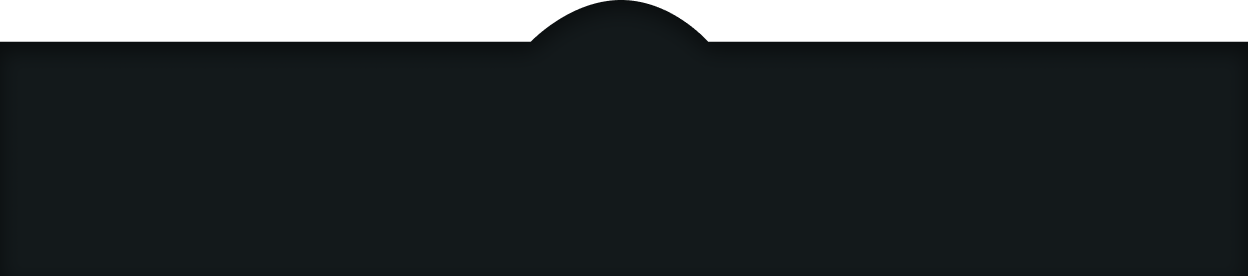
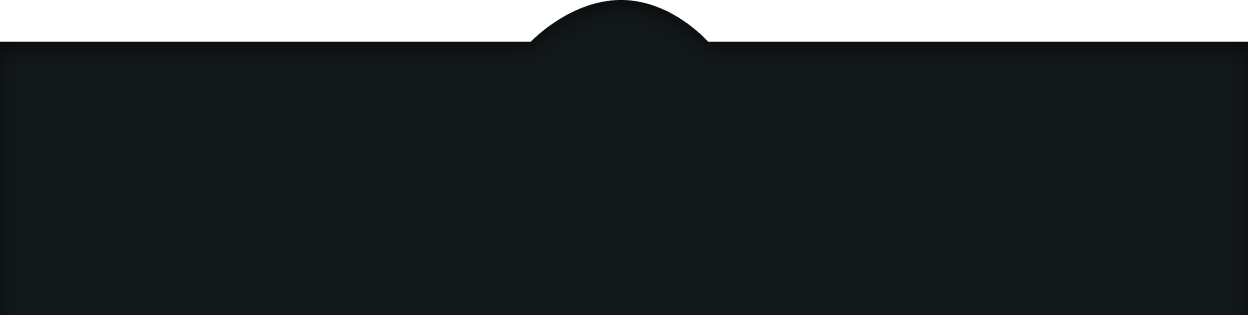
CU-864e8fpdr - Fix Design Issues related to PrivateNet/TestNet Support

diff --git a/src/components/SwiperPanel.tsx b/src/components/SwiperPanel.tsx
@@ -336,62 +336,62 @@ export default function SwiperPanel(props: SwiperProps) {
         ]}
         {...panResponder.current.panHandlers}
       >
-        <LinearGradient
-          colors={
-            props.darkerSolidColorBG
-              ? [theme.colors.background[14], theme.colors.background[14]]
-              : props.solidColorBG
-              ? [theme.colors.background[17], theme.colors.background[17]]
-              : [theme.colors.background[6], theme.colors.background[7]]
-          }
-          end={[1, 0.75]}
-          style={[
-            {
-              borderTopLeftRadius: 18,
-              borderTopRightRadius: 18,
-              width: '100%',
-              flexGrow: 1,
-              paddingBottom,
-              paddingTop,
-            },
-          ]}
-        >
-          {props.draggable && <DragBar />}
-          {!props.noHeader && <Header {...props} />}
-          {props.subHeader}
-          {props.disableDefaultScrollView ? (
-            <LinearLayout
-              width="100%"
-              weight={1}
-              style={{
-                paddingLeft,
-                paddingRight,
-                paddingBottom: PANEL_BOUNCE_OFFSET,
-              }}
-            >
-              {props.children}
-            </LinearLayout>
-          ) : (
-            <ScrollView
-              ref={scrollView}
-              contentContainerStyle={{
-                paddingLeft,
-                paddingRight,
-                paddingBottom: PANEL_BOUNCE_OFFSET,
+        <LinearLayout overflow="hidden" width="100%" flexGrow={1} borderTopLeftRadius={18} borderTopRightRadius={18}>
+          <LinearGradient
+            colors={
+              props.darkerSolidColorBG
+                ? [theme.colors.background[14], theme.colors.background[14]]
+                : props.solidColorBG
+                ? [theme.colors.background[17], theme.colors.background[17]]
+                : [theme.colors.background[6], theme.colors.background[7]]
+            }
+            end={[1, 0.75]}
+            style={[
+              {
+                width: '100%',
                 flexGrow: 1,
-              }}
-              alwaysBounceVertical={false}
-              showsVerticalScrollIndicator={false}
-              showsHorizontalScrollIndicator={false}
-              disableScrollViewPanResponder
-              nestedScrollEnabled
-            >
-              <TouchableHighlight>
-                <>{props.children}</>
-              </TouchableHighlight>
-            </ScrollView>
-          )}
-        </LinearGradient>
+                paddingBottom,
+                paddingTop,
+              },
+            ]}
+          >
+            {props.draggable && <DragBar />}
+            {!props.noHeader && <Header {...props} />}
+            {props.subHeader}
+            {props.disableDefaultScrollView ? (
+              <LinearLayout
+                width="100%"
+                weight={1}
+                style={{
+                  paddingLeft,
+                  paddingRight,
+                  paddingBottom: PANEL_BOUNCE_OFFSET,
+                }}
+              >
+                {props.children}
+              </LinearLayout>
+            ) : (
+              <ScrollView
+                ref={scrollView}
+                contentContainerStyle={{
+                  paddingLeft,
+                  paddingRight,
+                  paddingBottom: PANEL_BOUNCE_OFFSET,
+                  flexGrow: 1,
+                }}
+                alwaysBounceVertical={false}
+                showsVerticalScrollIndicator={false}
+                showsHorizontalScrollIndicator={false}
+                disableScrollViewPanResponder
+                nestedScrollEnabled
+              >
+                <TouchableHighlight>
+                  <>{props.children}</>
+                </TouchableHighlight>
+              </ScrollView>
+            )}
+          </LinearGradient>
+        </LinearLayout>
       </Animated.View>
     </LinearLayout>
   ) : (

diff --git a/src/scenes/Settings/EditNetworkModal.tsx b/src/scenes/Settings/EditNetworkModal.tsx
@@ -130,7 +130,13 @@ export const EditNetworkModal = (props: Props) => {
       onRightPress={controller.close}
       solidColorBG
     >
-      <LinearLayout orientation="verti" justifyContent="space-between" height="100%">
+      <LinearLayout
+        orientation="verti"
+        justifyContent="space-between"
+        height="100%"
+        paddingTop="32px"
+        paddingBottom="16px"
+      >
         <LinearLayout>
           <InputLabel
             title={I18n.t('modals.editNetworkModal.inputLabels.name')}

diff --git a/src/config/ApplicationConfig.ts b/src/config/ApplicationConfig.ts
@@ -8,7 +8,7 @@ export class ApplicationConfig {
   readonly defaultTheme = Theme.DARK
   readonly defaultDataRefreshTimeInMilliseconds = 7000
   readonly headerHeight = 68
-  readonly footerHeight = Platform.OS === 'ios' ? 90 : 80
+  readonly footerHeight = Platform.OS === 'ios' ? 105 : 80
   readonly footerOffset = 12
 
   readonly windowWidth = Dimensions.get('window').width

diff --git a/src/scenes/MorePage.tsx b/src/scenes/MorePage.tsx
@@ -38,7 +38,6 @@ const MorePage = (props: MoreProps) => {
 
   return (
     <ScreenLayout padding={20} darkerSolidColorBG>
-      <LinearLayout mb="20px" />
       <MenuItem
         title={i18n.t('more.createWallet')}
         icon={require('~/src/assets/images/wallet-icon-green.png')}